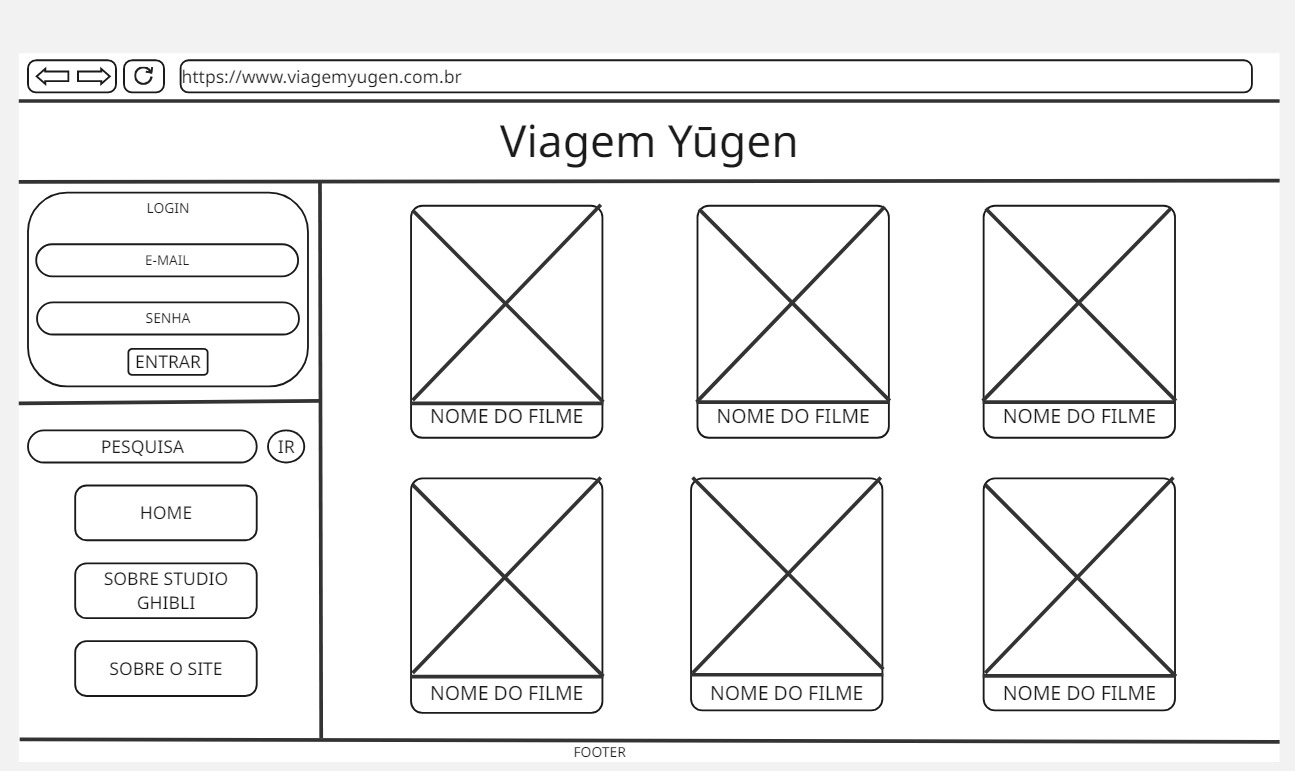
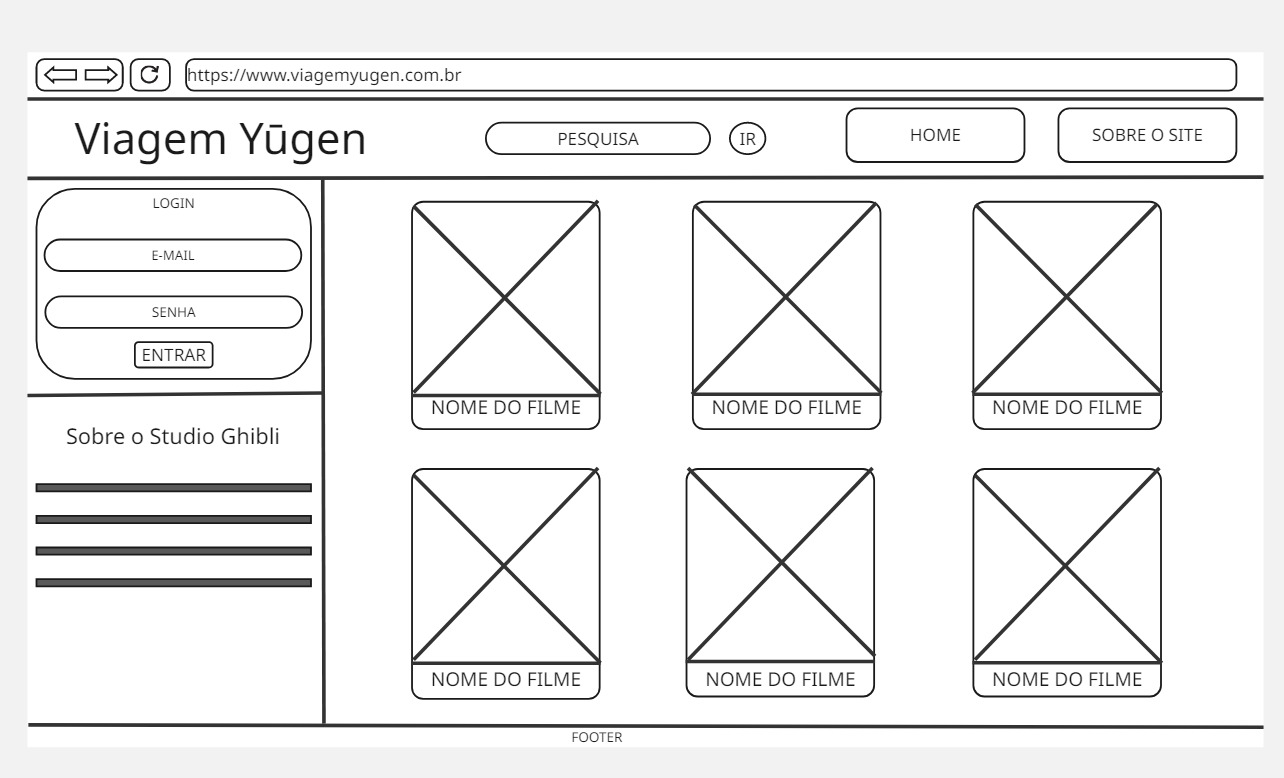
Alterações no layout da pagina

Changed region(s): [[0.0, 0.0623, 0.9969, 0.9961]]

diff --git a/public/style.css b/public/style.css
@@ -1,134 +1,133 @@
-/* Reset básico */
 * {
-    margin: 0;
-    padding: 0;
-    box-sizing: border-box;
-  }
-  
-  /* Layout principal */
-  body {
-    display: flex;
-    flex-direction: column;
-    min-height: 100vh;
-    font-family: Arial, sans-serif;
-    background-image: linear-gradient(#e0faf4,#195346);
-  }
-  
-  /* Header */
-  .titulo {
-    text-align: center;
-    padding: 10px 0;
-    font-size: 20px;
-    border-bottom: 2px solid #000;
-    background-image: linear-gradient(#fc577b, #a11030);
-  }
-  
-  /* Main layout: menu lateral + área de filmes */
-  main {
-    display: flex;
-  }
-  
-  /* Navegador lateral (esquerda) */
-  .navegador {
-    width: 250px;
-    padding: 25px;
-    flex-direction: column;
-    background-color: #e48f8f;
-    border-right: 1px solid #000;
-  }
-  
-  /* Login */
-  .login fieldset {
-    border: 1px solid #000;
-    padding: 10px;
-    border-radius: 20px;
-    margin-bottom: 20px;
-  }
-  
-  .login legend {
-    text-align: center;
-    font-weight: bold;
-  }
-  
-  .login input {
-    display: block;
-    width: 100%;
-    margin: 15px 0;
-    padding: 5px;
-    border-radius: 10px;
-    border: 1px solid #000;
-    background-color: #fabfcc;
-  }
-  
-  .botao_login {
-    display: block;
-    margin: 30px auto 10px;
-    padding: 8px;
-    border-radius: 10px;
-    border: 1px solid #000;
-    background-color: #a11030;
-  }
-  
-  /* Pesquisa */
-  .pesquisa {
-    width: 150px;
-    padding: 10px;
-    margin: 15px 0;
-    border-radius: 20px;
-    border: 1px solid #000;
-    background-color: #fabfcc;
-  }
-  
-  .botao_ok {
-    padding: 10px 10px;
-    border-radius: 50%;
-    border: 1px solid #000;
-    margin-left: 5px;
-    background-color: #a11030;
-  }
-  
-  /* Menu de navegação */
-  .menu button {
-    display: block;
-    width: 100%;
-    margin: 20px 0;
-    padding: 10px;
-    border-radius: 15px;
-    border: 1px solid #000;
-    background-color: #a11030;
-  }
-  
-  /* Grid de filmes */
-  main > div {
-    flex: 1;
-    display: grid;
-    grid-template-columns: repeat(3, 1fr);
-    justify-items: center;
-  }
-  
-  /* Cada artigo/filme */
-  article {
-    width: 200px;
-    text-align: center;
-    margin-top: 20px;
-  }
-  
-  article img {
-    width: 100%;
-    border-radius: 15px;
+  margin: 0;
+  padding: 0;
+  box-sizing: border-box;
+}
 
-  }
-  
-    p {
-    padding: 5px;
-    font-weight: bold;
-  }
-  
-  /* Footer */
-  .footer {
-    text-align: center;
-    padding: 10px;
-    border-top: 2px solid #000;
-    background-color: #a11030;
-  }
-  
+body {
+  font-family: Arial, sans-serif;
+}
+
+header.titulo {
+  display: flex;
+  align-items: center;
+  border-bottom: 2px solid #000;
+  padding: 15px;
+  justify-content: space-between;
+  background-image: linear-gradient(#fc577b, #a11030);
+}
+
+header.titulo h1 {
+  font-size: 30px;
+  margin-left: 70px;
+}
+
+header.titulo section {
+  display: flex;
+  align-items: center;
+  gap: 10px;
+}
+
+.pesquisa {
+  padding: 5px;
+  width: 300px;
+  border-radius: 10px;
+}
+
+.botao_ok {
+  padding: 5px 10px;
+  border-radius: 50px;
+}
+
+.menu button {
+  width: 100px;
+  height: 25px;
+  margin-right: 30px;
+  border-radius: 10px;
+}
+
+main {
+  display: flex;
+  padding: 20px;
+}
+
+nav.navegador {
+  width: 25%;
+  display: flex;
+  flex-direction: column;
+  padding-right: 20px;
+  border-right: 2px solid #000;
+}
+
+h3 {
+  margin: 10px;
+}
+
+.sobre {
+  text-align: justify;
+  margin: 10px 20px;
+}
+.resumo {
+  margin-top: 10px;
+  text-align: center;
+  border-radius: 8px;
+  border: 1px solid #000;
+}
+
+.login fieldset {
+  border: 1px solid #000;
+  padding: 10px;
+  border-radius: 20px;
+}
+
+.login legend {
+  text-align: center;
+  font-weight: bold;
+}
+
+.login input {
+  display: block;
+  width: 100%;
+  margin: 10px 0;
+  padding: 5px;
+  border-radius: 10px;
+  border: 1px solid #000;
+  background-color: #fcedf0;
+}
+
+.botao_login {
+  display: block;
+  margin: 0 auto;
+  padding: 8px;
+  border-radius: 10px;
+  border: 1px solid #000;
+  background-color: #a11030;
+}
+
+main > div {
+  display: grid;
+  grid-template-columns: repeat(3, 1fr);
+}
+
+article {
+  text-align: center;
+  border: 1px solid #000;
+  border-radius: 8px;
+  padding: 10px;
+  margin: 0 40px 10px 50px;
+  font-weight: bold;
+}
+
+article img {
+  width: 100%;
+  height: 230px;
+  display: block;
+  margin-bottom: 10px;
+}
+
+.footer {
+  text-align: center;
+  padding: 10px;
+  border-top: 2px solid #000;
+  background-color: #a11030;
+}

diff --git a/public/index.html b/public/index.html
@@ -1,17 +1,24 @@
 <!DOCTYPE html>
-<html lang="en">
-<head>
-    <meta charset="UTF-8">
-    <meta name="viewport" content="width=device-width, initial-scale=1.0">
-    <title>Document</title>
+<html lang="pt-br">
+  <head>
+    <meta charset="UTF-8" />
+    <meta http-equiv="X-UA-Compatible" content="IE=edge" />
+    <meta name="viewport" content="width=device-width, initial-scale=1.0" />
     <link rel="stylesheet" href="style.css">
-</head>
-<body>
-         <!-- Cabeçalho/titulo -->
+    <title>Viagem Yūgen</title>
+  </head>
+  <body>
     <header class="titulo">
         <h1>Viagem Yūgen</h1>
+        <section>
+            <input type="text" class="pesquisa" placeholder="Pesquisar">
+            <button class="botao_ok">IR</button>
+        </section>
+        <section class="menu">
+            <button>Home</button>
+            <button>Sobre o site</button>
+        </section>
     </header>
-    <!--Conteudo do site-->
     <main>
         <nav class="navegador">
             <section class="login">
@@ -24,45 +31,40 @@
                     </fieldset>
                 </form>
             </section>
-            <section>
-                <input type="text" class="pesquisa" placeholder="Pesquisar">
-                <button class="botao_ok">IR</button>
-            </section>
-            <section class="menu">
-                <button>Home</button>
-                <button>Sobre Studio Ghibli</button>
-                <button>Sobre o site</button>
-            </section>
+           <section class="resumo">
+            <h3>Sobre o Studio Ghibli</h3>
+            <p class="sobre">O Studio Ghibli é um renomado estúdio de animação japonês, fundado em 1985 pelos diretores Hayao Miyazaki e Isao Takahata, com o produtor Toshio Suzuki. É amplamente reconhecido por sua animação artesanal de altíssima qualidade, tramas emocionantes e universos ricos em imaginação. Entre seus filmes mais icônicos estão A Viagem de Chihiro (vencedor do Oscar de Melhor Animação), Meu Amigo Totoro, O Castelo Animado e Princesa Mononoke. Os filmes do Studio Ghibli conquistaram públicos de todas as idades e influenciaram profundamente o cinema de animação no mundo todo.</p>
+           </section>
         </nav>
         <div>
             <article>
-                <img src="https://picsum.photos/id/27/200/200" alt="Filme 1">
-                <p>Nome do Filme 1</p>
+                <img src="/public/img/aviagemdechihiro.jpg" alt="Filme 1">
+                <p>A Viagem de Chihiro (2001)</p>
             </article>
             <article>
-                <img src="https://picsum.photos/id/33/200/200" alt="Filme 2">
-                <p>Nome do Filme 2</p>
+                <img src="/public/img/princesamononoke.jpg" alt="Filme 2">
+                <p>Princesa Mononoke (1997)</p>
             </article>
             <article>
-                <img src="https://picsum.photos/id/43/200/200" alt="Filme 3">
-                <p>Nome do Filme 3</p>
+                <img src="/public/img/ocasteloanimado.jpg" alt="Filme 3">
+                <p>O Castelo Animado (2004)</p>
             </article>
             <article>
-                <img src="https://picsum.photos/id/55/200/200" alt="Filme 4">
-                <p>Nome do Filme 4</p>
+                <img src="/public/img/meuamigototoro.jpg" alt="Filme 4">
+                <p>Meu Amigo Totoro (1988)</p>
             </article>
             <article>
-                <img src="https://picsum.photos/id/10/200/200" alt="Filme 5">
-                <p>Nome do Filme 5</p>
+                <img src="/public/img/ponyo.jpg" alt="Filme 5">
+                <p>Ponyo (2008)</p>
             </article>
             <article>
-                <img src="https://picsum.photos/id/20/200/200" alt="Filme 6">
-                <p>Nome do Filme 6</p>
+                <img src="/public/img/tumulodosvagalumes.jpg" alt="Filme 6">
+                <p>Tumulo dos Vagalumes (1989)</p>
             </article>
         </div>
     </main>
     <footer class="footer">
-        &copy; 2025 Tereza Cristina - Todos os direitos reservados.
-      </footer>
-</body>
+      &copy; 2025 Tereza Cristina - Todos os direitos reservados.
+    </footer>
+  </body>
 </html>

diff --git a/README.md b/README.md
@@ -23,4 +23,4 @@ Nessa atividade, você deverá montar a página inicial do projeto escolhido, a 
 
 ## Print da home-page criada
 
-![Print home-page](/public/img/print.png)
+![Print home-page](/public/img/telafinal.png)
